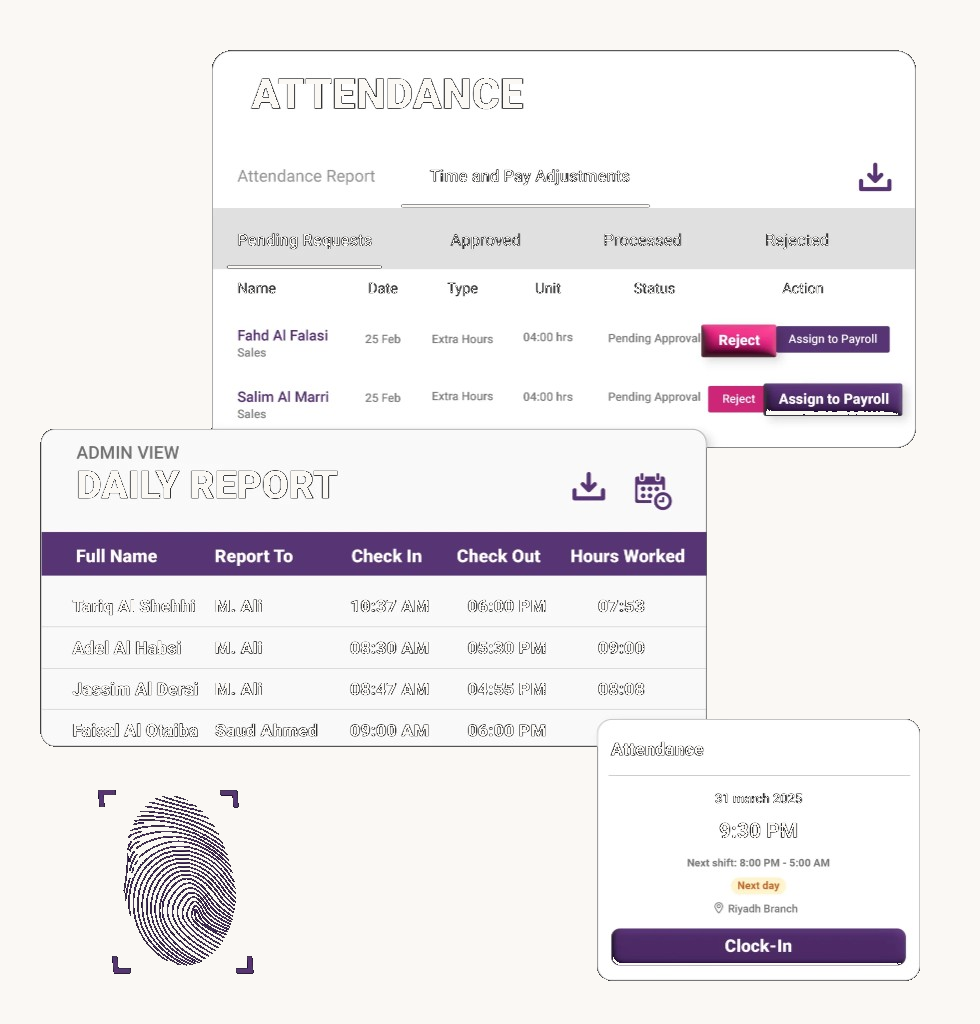
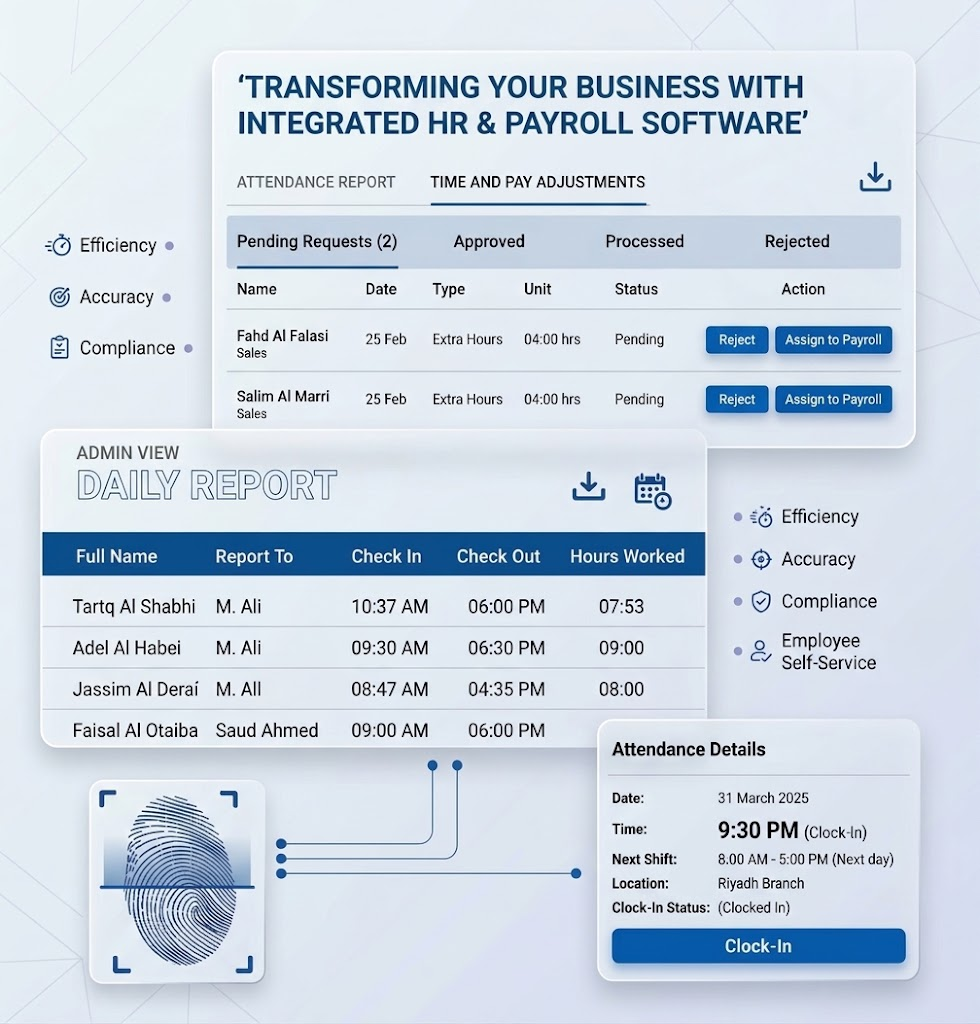
assets made better

diff --git a/client/src/pages/hr-software.tsx b/client/src/pages/hr-software.tsx
@@ -26,10 +26,12 @@ import {
   HR_CHOOSE_CRITERIA,
   HR_CHOOSE_INTRO,
   HR_CHOOSE_PAYROLL_IMAGE,
+  HR_CLOUD_BRANCHES_IMAGE,
   HR_KEY_FEATURES,
   HR_KEY_FEATURES_IMAGE,
   HR_KEY_FEATURES_INTRO,
-  HR_PAYROLL_STEPS,
+  HR_PAYROLL_WORKFLOW_IMAGE,
+  HR_PAYSLIP_ESS_IMAGE,
   hrIllustrationPath,
 } from "@/lib/hr-content";
 import {
@@ -44,11 +46,6 @@ import {
 import erpIntegrations from "@/assets/erp/integrations.png";
 
 const technologies = SERVICE_DETAILS["hr-software"].technologies;
-
-const payrollProcessItems = HR_PAYROLL_STEPS.map((s) => ({
-  title: s.title,
-  description: s.description,
-}));
 
 export default function HRSoftware() {
   const heroImage = hrIllustrationPath("hero-dashboard");
@@ -167,8 +164,8 @@ export default function HRSoftware() {
       <HrCreamSplitSection
         title="Cloud HR that scales with your branches"
         items={HR_CHOOSE_CRITERIA.slice(3, 6)}
-        image={hrIllustrationPath("collage-choose-cloud")}
-        imageAlt="Cloud HR dashboard with attendance, payslip download, and document modules"
+        image={HR_CLOUD_BRANCHES_IMAGE}
+        imageAlt="Cloud HR map connecting HQ and global branches with live sync, attendance, and payroll-ready status"
         textFirst={false}
       />
 
@@ -177,15 +174,15 @@ export default function HRSoftware() {
         intro={HR_KEY_FEATURES_INTRO}
         items={HR_KEY_FEATURES.slice(0, 3)}
         image={HR_KEY_FEATURES_IMAGE}
-        imageAlt="Leave balances, mobile leave requests, admin time-off approvals, and HR documents"
+        imageAlt="Allocated leave balances, mobile leave applications, manager approvals, and HR documents"
         textFirst
       />
 
       <HrCreamSplitSection
         title="Payslips, branches & employee self-service"
         items={HR_KEY_FEATURES.slice(3, 6)}
-        image={hrIllustrationPath("collage-features-ess")}
-        imageAlt="Payroll payment review screen for bank disbursement"
+        image={HR_PAYSLIP_ESS_IMAGE}
+        imageAlt="Payslips and bank transfer, multi-branch HR, and employee self-service on mobile"
         textFirst={false}
       />
 
@@ -194,19 +191,28 @@ export default function HRSoftware() {
         intro={HR_BENEFITS_INTRO}
         items={HR_BUSINESS_BENEFITS.slice(0, 3)}
         image={HR_BENEFITS_IMAGE}
-        imageAlt="Attendance time and pay adjustments, daily admin report, biometric clock-in"
+        imageAlt="Integrated HR and payroll benefits: efficiency, accuracy, compliance, attendance and pay adjustments"
         textFirst={false}
       />
 
-      <HrCreamSplitSection
-        title="How does payroll software work?"
-        intro="From attendance data to payslips and reports — a clear pipeline with fewer manual steps each month."
-        items={payrollProcessItems}
-        image={hrIllustrationPath("payroll-workflow")}
-        imageAlt="Five-step payroll workflow from data input to disbursement"
-        textFirst
-        cream={false}
-      />
+      <section
+        className="section-padding bg-white border-y border-slate-100"
+        aria-label="How payroll software works"
+      >
+        <div className="section-container">
+          <FadeInSection>
+            <img
+              src={HR_PAYROLL_WORKFLOW_IMAGE}
+              alt="How payroll software works: data input, salary calculation, compliance, payslips, and disbursement"
+              className="w-full max-w-6xl mx-auto h-auto rounded-2xl"
+              width={1400}
+              height={900}
+              loading="lazy"
+              decoding="async"
+            />
+          </FadeInSection>
+        </div>
+      </section>
 
       <HrWhyChooseSection />
 

diff --git a/client/src/lib/hr-content.ts b/client/src/lib/hr-content.ts
@@ -1,7 +1,10 @@
 import whyChooseHrIllustration from "@/assets/hr/why-choose-hr.png";
-import hrChoosePayrollIllustration from "@/assets/hr/hr-choose-payroll.png";
-import hrKeyFeaturesIllustration from "@/assets/hr/hr-key-features.png";
+import hrChoosePayrollIllustration from "@/assets/hr/hr-choose-payroll.jpg";
+import hrKeyFeaturesIllustration from "@/assets/hr/hr-key-features.jpg";
 import hrBenefitsIllustration from "@/assets/hr/hr-benefits.png";
+import hrCloudBranchesIllustration from "@/assets/hr/hr-cloud-branches.jpg";
+import hrPayslipEssIllustration from "@/assets/hr/hr-payslip-ess.png";
+import hrPayrollWorkflowIllustration from "@/assets/hr/hr-payroll-workflow.jpg";
 
 /** Warm off-white band — matches Sowaan-style HR landing sections. */
 export const HR_CREAM = "#FAF8F4";
@@ -166,6 +169,9 @@ export const HR_WHY_CHOOSE_IMAGE = whyChooseHrIllustration;
 export const HR_CHOOSE_PAYROLL_IMAGE = hrChoosePayrollIllustration;
 export const HR_KEY_FEATURES_IMAGE = hrKeyFeaturesIllustration;
 export const HR_BENEFITS_IMAGE = hrBenefitsIllustration;
+export const HR_CLOUD_BRANCHES_IMAGE = hrCloudBranchesIllustration;
+export const HR_PAYSLIP_ESS_IMAGE = hrPayslipEssIllustration;
+export const HR_PAYROLL_WORKFLOW_IMAGE = hrPayrollWorkflowIllustration;
 
 export const HR_CHOOSE_INTRO =
   "Picking the right payroll software in Pakistan affects employee trust and your finance close. Use this checklist when you compare HRMS options — then see how ERPNext HR fits your branches and compliance needs.";
